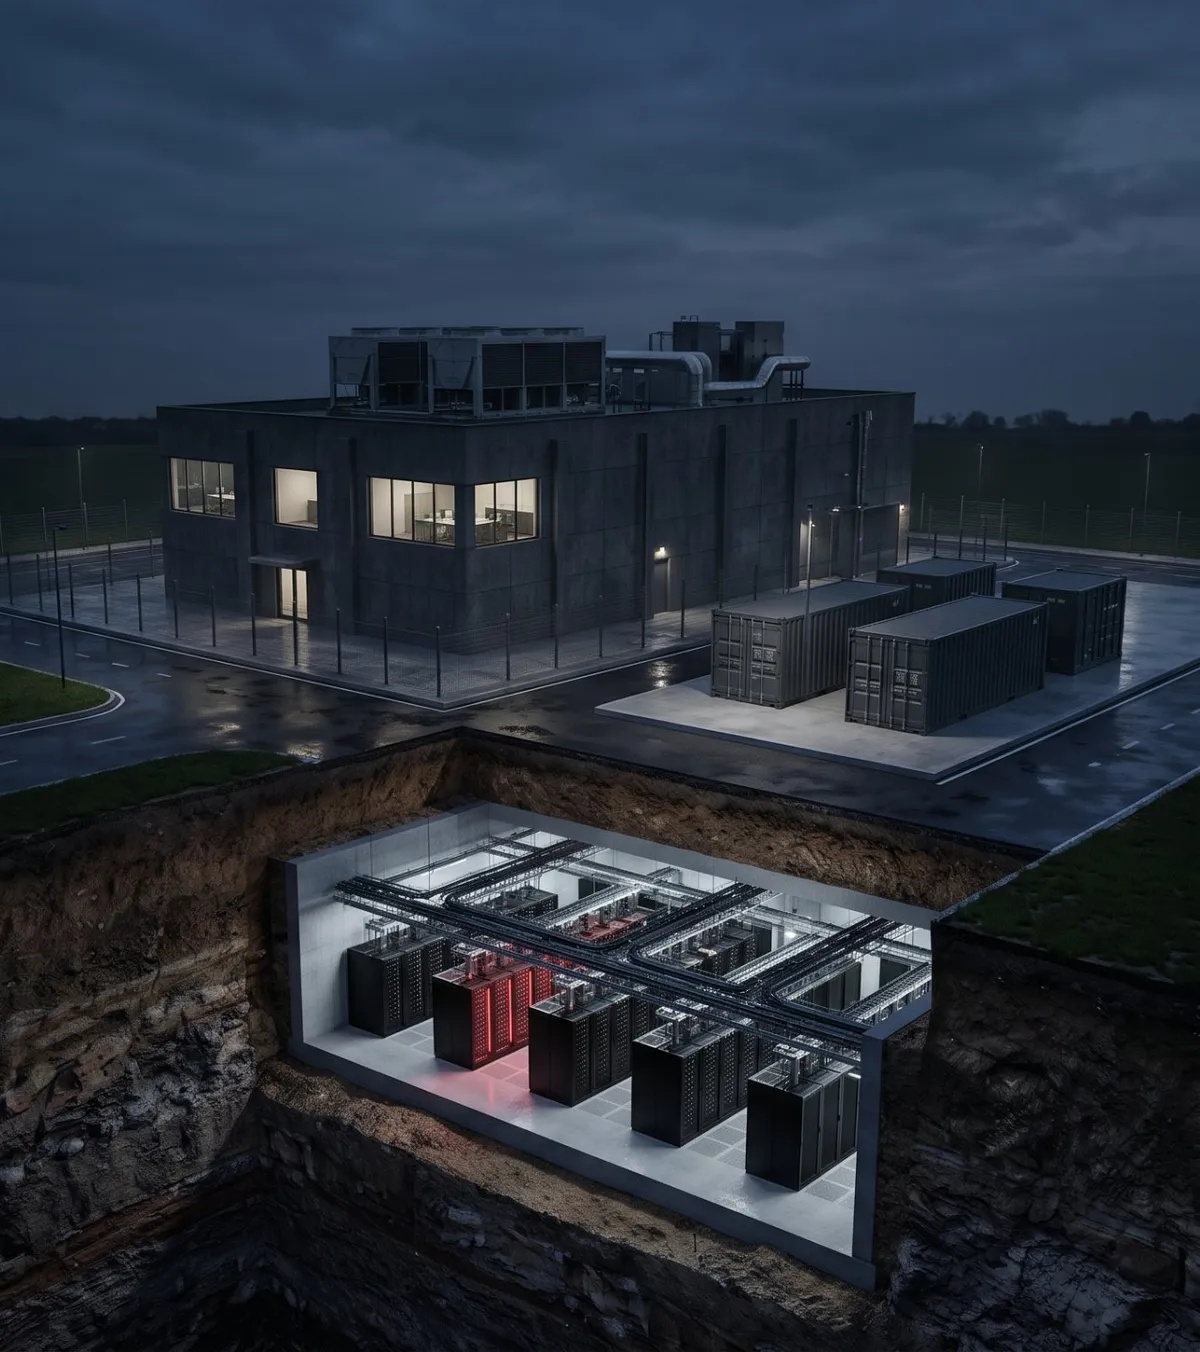
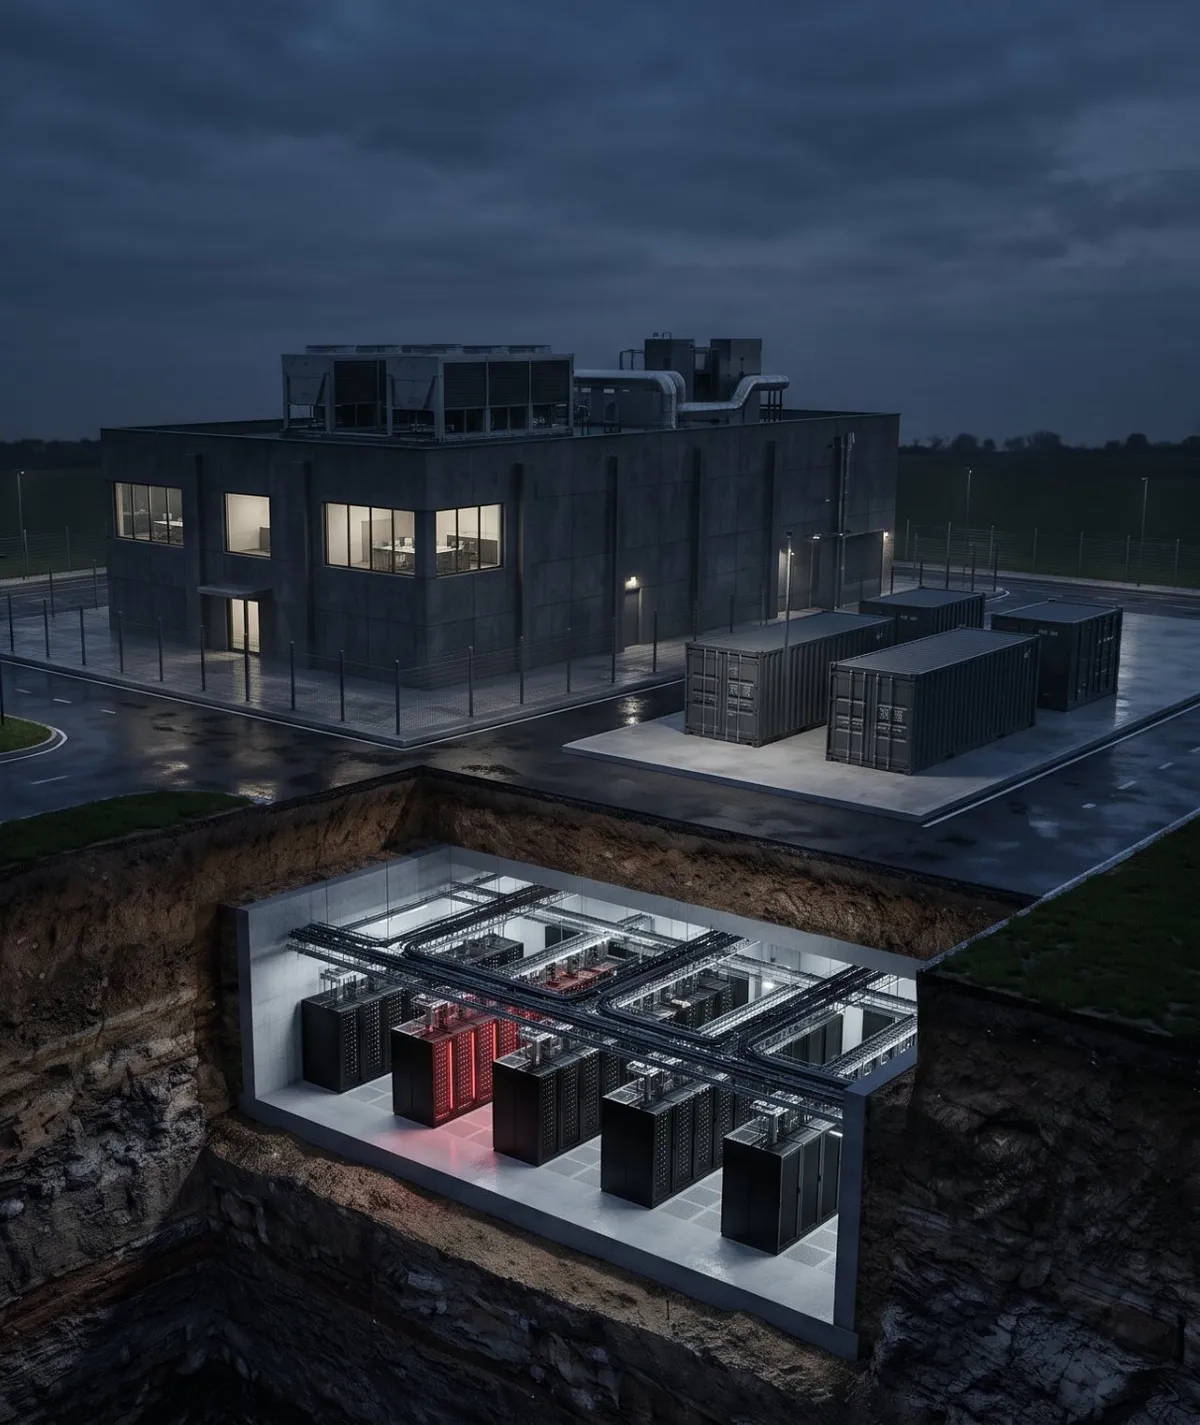
Правки hero A/B/C по замечаниям
Claude-Session: https://claude.ai/code/session_01Rceo4o436Ci663o55dEanT

diff --git a/docs/mockups/hero-a.html b/docs/mockups/hero-a.html
@@ -21,9 +21,9 @@ a{color:#1E3A8A}a:hover{color:#142a66}
 .gridbg{background-color:#F7F8FA;background-image:linear-gradient(rgba(30,58,138,.07) 1px,transparent 1px),linear-gradient(90deg,rgba(30,58,138,.07) 1px,transparent 1px),linear-gradient(rgba(30,58,138,.05) 1px,transparent 1px),linear-gradient(90deg,rgba(30,58,138,.05) 1px,transparent 1px);background-size:96px 96px,96px 96px,24px 24px,24px 24px}
 </style>
 </helmet>
-<div class="gridbg" style="width: 1440px; height: 860px; box-sizing: border-box; font-family: Onest, Arial, sans-serif; color: #141821; display: flex; flex-direction: column">
+<div style="background: #D3D6DC; width: 1440px; height: 860px; box-sizing: border-box; font-family: Onest, Arial, sans-serif; color: #141821; display: flex; flex-direction: column">
 
-<header style="height: 84px; flex-shrink: 0; display: flex; align-items: center; justify-content: space-between; padding: 0 64px; border-bottom: 1px solid rgba(30,58,138,.14); background: rgba(247,248,250,.92)">
+<header style="height: 84px; flex-shrink: 0; display: flex; align-items: center; justify-content: space-between; padding: 0 64px; border-bottom: 1px solid rgba(20,24,33,.10)">
 <a href="#" style="display: flex; align-items: center; gap: 12px; text-decoration: none">
 <svg width="34" height="34" viewBox="0 0 100 100" aria-hidden="true"><circle cx="62" cy="50" r="30" fill="#1E3A8A"></circle><circle cx="38" cy="50" r="30" fill="#D62839"></circle><circle cx="38" cy="50" r="9" fill="#141821"></circle></svg>
 <span style="display: flex; flex-direction: column; gap: 4px"><span class="lw" style="font-size: 22px"><span class="b">IR</span><span class="o oc"></span><span class="b">N</span><span class="r">C</span><span class="o ob"></span><span class="r">RE</span></span><span style="font-size: 11px; font-weight: 500; color: #5B6475">Проектирование ЦОД</span></span>
@@ -37,12 +37,7 @@ a{color:#1E3A8A}a:hover{color:#142a66}
 <div style="grid-column: 1 / 6; display: flex; flex-direction: column; gap: 28px">
 <h1 style="margin: 0; font-size: 76px; font-weight: 600; line-height: 1.02; letter-spacing: -0.025em">Защищенность начинается с проекта</h1>
 <p style="margin: 0; font-size: 19px; line-height: 1.55; color: #3E4757; max-width: 500px">Проектируем дата-центры с учетом физических угроз – от выбора площадки и архитектуры до защиты критической инженерной инфраструктуры.</p>
-<div style="display: grid; grid-template-columns: repeat(2, minmax(0, 1fr)); gap: 10px 24px; max-width: 420px; font-size: 16px; font-weight: 500">
-<div style="display: flex; align-items: center; gap: 12px"><span style="width: 18px; height: 2px; background: #1E3A8A; display: inline-block"></span>Классические</div>
-<div style="display: flex; align-items: center; gap: 12px"><span style="width: 18px; height: 2px; background: #1E3A8A; display: inline-block"></span>Модульные</div>
-<div style="display: flex; align-items: center; gap: 12px"><span style="width: 18px; height: 2px; background: #1E3A8A; display: inline-block"></span>Контейнерные</div>
-<div style="display: flex; align-items: center; gap: 12px"><span style="width: 18px; height: 2px; background: #D62839; display: inline-block"></span>Подземные</div>
-</div>
+<p style="margin: 0; font-size: 16px; font-weight: 500; color: #141821">Классические, модульные, контейнерные и подземные ЦОД</p>
 <div style="display: flex; align-items: center; gap: 16px; margin-top: 8px">
 <a href="#" style="display: inline-flex; align-items: center; height: 56px; padding: 0 30px; background: #1E3A8A; color: #FFFFFF; font-size: 16px; font-weight: 600; text-decoration: none">Обсудить проект</a>
 <a href="#" style="display: inline-flex; align-items: center; height: 56px; padding: 0 30px; border: 1.5px solid #1E3A8A; color: #1E3A8A; font-size: 16px; font-weight: 600; text-decoration: none">Наши решения</a>
@@ -50,7 +45,7 @@ a{color:#1E3A8A}a:hover{color:#142a66}
 </div>
 
 <div style="grid-column: 6 / 13; display: flex; justify-content: flex-end">
-<img src="../../assets/img/hero-a-model.webp" alt="Макет ЦОД в разрезе: здание на земле, подземный серверный зал и контейнеры" style="width: 780px; height: 436px; object-fit: cover; display: block">
+<div style="position: relative; width: 920px; height: 514px; margin-right: -64px"><img src="../../assets/img/hero-a-model.webp" alt="Макет ЦОД в разрезе: здание на земле, подземный серверный зал и контейнеры" style="width: 920px; height: 514px; object-fit: cover; display: block; -webkit-mask-image: radial-gradient(ellipse 60% 66% at 50% 50%, #000 60%, transparent 100%); mask-image: radial-gradient(ellipse 60% 66% at 50% 50%, #000 60%, transparent 100%)"><div aria-hidden="true" style="position: absolute; left: 22%; width: 56%; top: 392px; height: 56px; border-radius: 50%; background: radial-gradient(ellipse at center, rgba(20,24,33,.22) 0%, rgba(20,24,33,0) 70%); mix-blend-mode: multiply"></div></div>
 </div>
 </div>
 </div>

diff --git a/docs/mockups/hero-b.html b/docs/mockups/hero-b.html
@@ -22,9 +22,9 @@ a{color:#FFFFFF}a:hover{color:#DCE3EE}
 </helmet>
 <div style="width: 1440px; height: 860px; box-sizing: border-box; position: relative; overflow: hidden; background: #1D283A; font-family: Inter, Arial, sans-serif; color: #FFFFFF">
 
-<img src="../../assets/img/hero-b-night.webp" alt="Ночной ЦОД в разрезе: здание, контейнерные модули и подземный серверный зал" style="position: absolute; left: 600px; top: 0; width: 840px; height: 860px; object-fit: cover; object-position: 50% 60%"><div aria-hidden="true" style="position: absolute; left: 600px; top: 0; width: 220px; height: 860px; background: linear-gradient(90deg, #1D283A 0%, rgba(29,40,58,0) 100%)"></div>
+<img src="../../assets/img/hero-b-night.webp" alt="Ночной ЦОД в разрезе: здание, контейнерные модули и подземный серверный зал" style="position: absolute; left: 620px; top: 0; width: 820px; height: 860px; object-fit: cover; object-position: 50% 60%"><div aria-hidden="true" style="position: absolute; left: 619px; top: 0; width: 393px; height: 860px; background: linear-gradient(90deg, #1D283A 0%, rgba(29,40,58,0) 100%)"></div>
 
-<header style="position: absolute; left: 0; top: 0; width: 1440px; height: 84px; box-sizing: border-box; display: flex; align-items: center; justify-content: space-between; padding: 0 64px; border-bottom: 1px solid rgba(255,255,255,.08)">
+<header style="position: absolute; left: 0; top: 0; width: 1440px; height: 84px; box-sizing: border-box; display: flex; align-items: center; justify-content: space-between; padding: 0 64px">
 <a href="#" style="display: flex; align-items: center; gap: 12px; text-decoration: none">
 <svg width="34" height="34" viewBox="0 0 100 100" aria-hidden="true"><circle cx="62" cy="50" r="30" fill="#3B63D9"></circle><circle cx="38" cy="50" r="30" fill="#E63946"></circle><circle cx="38" cy="50" r="9" fill="#0E1117"></circle></svg>
 <span style="display: flex; flex-direction: column; gap: 4px"><span class="lw" style="font-size: 22px"><span class="b">IR</span><span class="o oc"></span><span class="b">N</span><span class="r">C</span><span class="o ob"></span><span class="r">RE</span></span><span style="font-size: 11px; font-weight: 500; color: #9AA3B5">Проектирование ЦОД</span></span>

diff --git a/docs/STATUS.md b/docs/STATUS.md
@@ -18,3 +18,4 @@
 - 2026-11-05 — утверждён логотип.
 - 2026-11-05 — нарисованы макеты трёх hero (`docs/mockups/`), картинки теперь можно прикреплять прямо в чат.
 - 2026-11-05 — картинки для всех трёх hero готовы (`assets/img/hero-*.webp`), вставлены в макеты.
+- 2026-11-05 — правки hero: A без сетки, макет «парит» с тенью; B без полосы; фото C в едином синем тоне.
